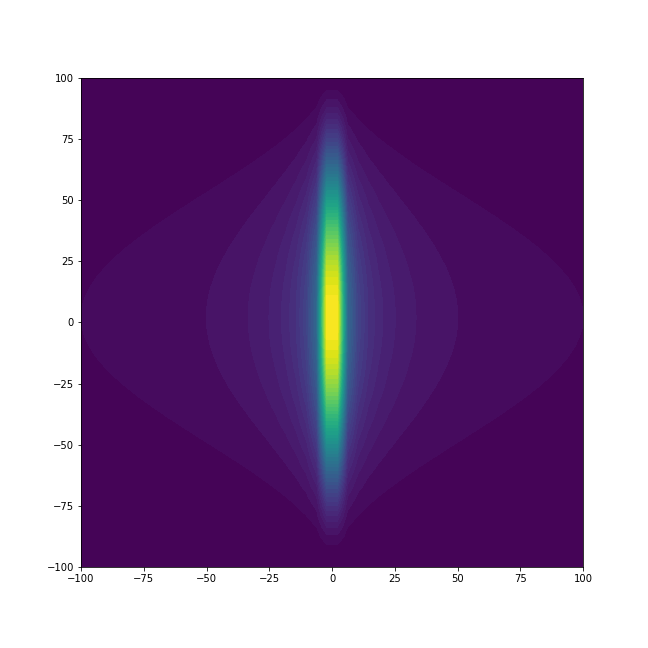
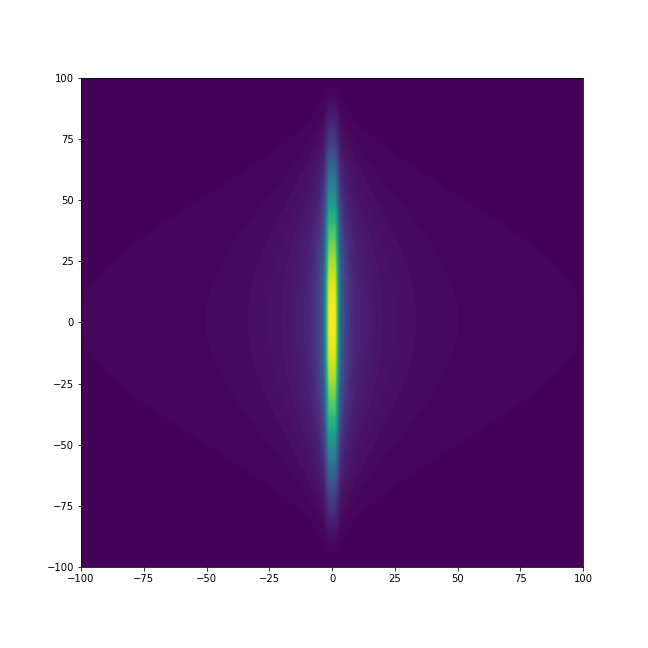
Changes done on May 28

Changed region(s): [[0.4321, 0.1852, 0.5864, 0.7716]]

diff --git a/scripts/X/attempt_1.py b/scripts/X/attempt_1.py
@@ -9,19 +9,21 @@ Created on Tue May 21 09:36:13 2024
 import numpy as np
 import matplotlib.pyplot as plt
 
-A = .8
-B = -.5
+A = 0
+B = 0
 zetta_s = 0.01
-n = 50
+n = 100
+N = 1
 delta = 1/(n+1)
 zetta = n*delta
+zetta_n = np.arange(0, zetta_s, zetta_s/n)
 x = np.linspace(-100, 100, n)  
 y = np.linspace(-100, 100, n)
 X, Y = np.meshgrid(x, y)
 
 
 #Finite differences attempt 1
-def finite_differences(A, B):
+def finite_differences(A, B, N):
     goo = np.exp(2*A) #g_00 guess
     grr = np.exp(2*B) #g_rr guess
     goo_approx = 2*np.exp(A)*np.sinh(A) #approx. used for g_00(1-1/g_00)
@@ -35,14 +37,14 @@ def finite_differences(A, B):
         if i > 1:
             matrix[i, i-1] = D
     eigenvalues, eigenvectors = np.linalg.eig(matrix) #getting the eigenvalues and eigenvectors
-    eig_vec = eigenvectors[:, 1].reshape((n, 1))
+    eig_vec = eigenvectors[:, N].reshape((n, 1))
     eig_vec = np.tile(eig_vec, (1, n)) / np.sqrt(np.abs(X) + 1e-10) #reshaping and normalizing
-    eigen_vec = eigenvectors[:, 1]
+    eigen_vec = eigenvectors[:, N]
     epsilon = eigenvalues/(1+np.sqrt(1+zetta*eigenvalues/2))
     return [epsilon, eig_vec, eigen_vec]
 
 def radial_function(u):
-    R = np.sqrt(np.exp(2*A)/np.exp(2*B))*u**2 / zetta**2
+    R = np.sqrt(np.exp(2*A))*u / zetta
     return R
 
 def der_of_R(R):
@@ -51,26 +53,42 @@ def der_of_R(R):
         if i == n-1 or i == 0:
             dR[i]=0
             continue
-        dR[i] = (R[i+1]-R[i-1])/(2*delta)
+        dR[i] = (R[i+1]-R[i-1])/(zetta_n[i+1]-zetta_n[i-1])
     return(dR)
 
-#now, attempting RK
-#def Runge_Kutta():
-    #A_0 = B_0 = 0
-    #A = A_0
-    #B = B_0
-    #for i in range(n):
-        #goo = np.exp(2*A)
-        #grr = np.exp(2*B)
-        #A_temp = A + (1/(2*zetta))*(grr-1)-(zetta_s*i*delta/4)*grr*R_tilde**2+(zetta_s**2*(i*delta)/8)
+def temp(A, B, zetta, R, dR, epsilon):
+    goo = np.exp(2*A)
+    grr = np.exp(2*B)
+    A_temp =(1/(2*zetta))*(grr-1)-(zetta_s*zetta/4)*grr*R**2+(zetta_s**2*zetta/8)*dR**2+(zetta_s*zetta/4)*(1+zetta_s*epsilon/2)**2*(grr/goo)*R**2
+    B_temp =-(1/(2*zetta))*(grr-1)+(zetta_s*zetta/4)*grr*R**2+(zetta_s**2*zetta/8)*dR**2+(zetta_s*zetta/4)*(1+zetta_s*epsilon/2)**2*(grr/goo)*R**2
+    return [A_temp, B_temp]
 
-print(finite_differences(A, B))
-R = radial_function(finite_differences(A, B)[2])
+epsilon_n = finite_differences(A, B, N)[0]
+epsilon = epsilon_n[N]
+
+#now, attempting RK
+def Runge_Kutta(R, dR, epsilon):
+    A = np.zeros(len(R))
+    B = np.zeros(len(R))
+    for i in range(len(R)-1):
+        print(A[i], B[i], zetta_n[i], R[i], dR[i], epsilon)
+        A_temp = A[i] + delta*temp(A[i], B[i], zetta_n[i], R[i], dR[i], epsilon)[0]
+        B_temp = B[i] + delta*temp(A[i], B[i], zetta_n[i], R[i], dR[i], epsilon)[1]
+        print(A_temp, B_temp)
+        A[i+1] = A[i] + (delta/2)*temp(A[i], B[i], zetta_n[i], R[i], dR[i], epsilon)[0]+temp(A_temp, B_temp, zetta_n[i+1], R[i+1], dR[i+1], epsilon)[0]
+        B[i+1] = B[i] + (delta/2)*temp(A[i], B[i], zetta_n[i], R[i], dR[i], epsilon)[1]+temp(A_temp, B_temp, zetta_n[i+1], R[i+1], dR[i+1], epsilon)[1]
+    return [A, B]
+
+
+print(epsilon)
+R = radial_function(finite_differences(A, B, N)[2])
 print(R)
 dR = der_of_R(R)
 print(dR)
+v = Runge_Kutta(R, dR, epsilon)
+print(v)
 plt.figure(figsize=(9,9))
-plt.contourf(X, Y, finite_differences(A, B)[1]**2, n) #plotting to visualize probability density
+plt.contourf(X, Y, finite_differences(A, B, N)[1]**2, n) #plotting to visualize probability density
 plt.savefig('Probability density')
 plt.figure(figsize=(9,7))
 plt.plot(x, R)
